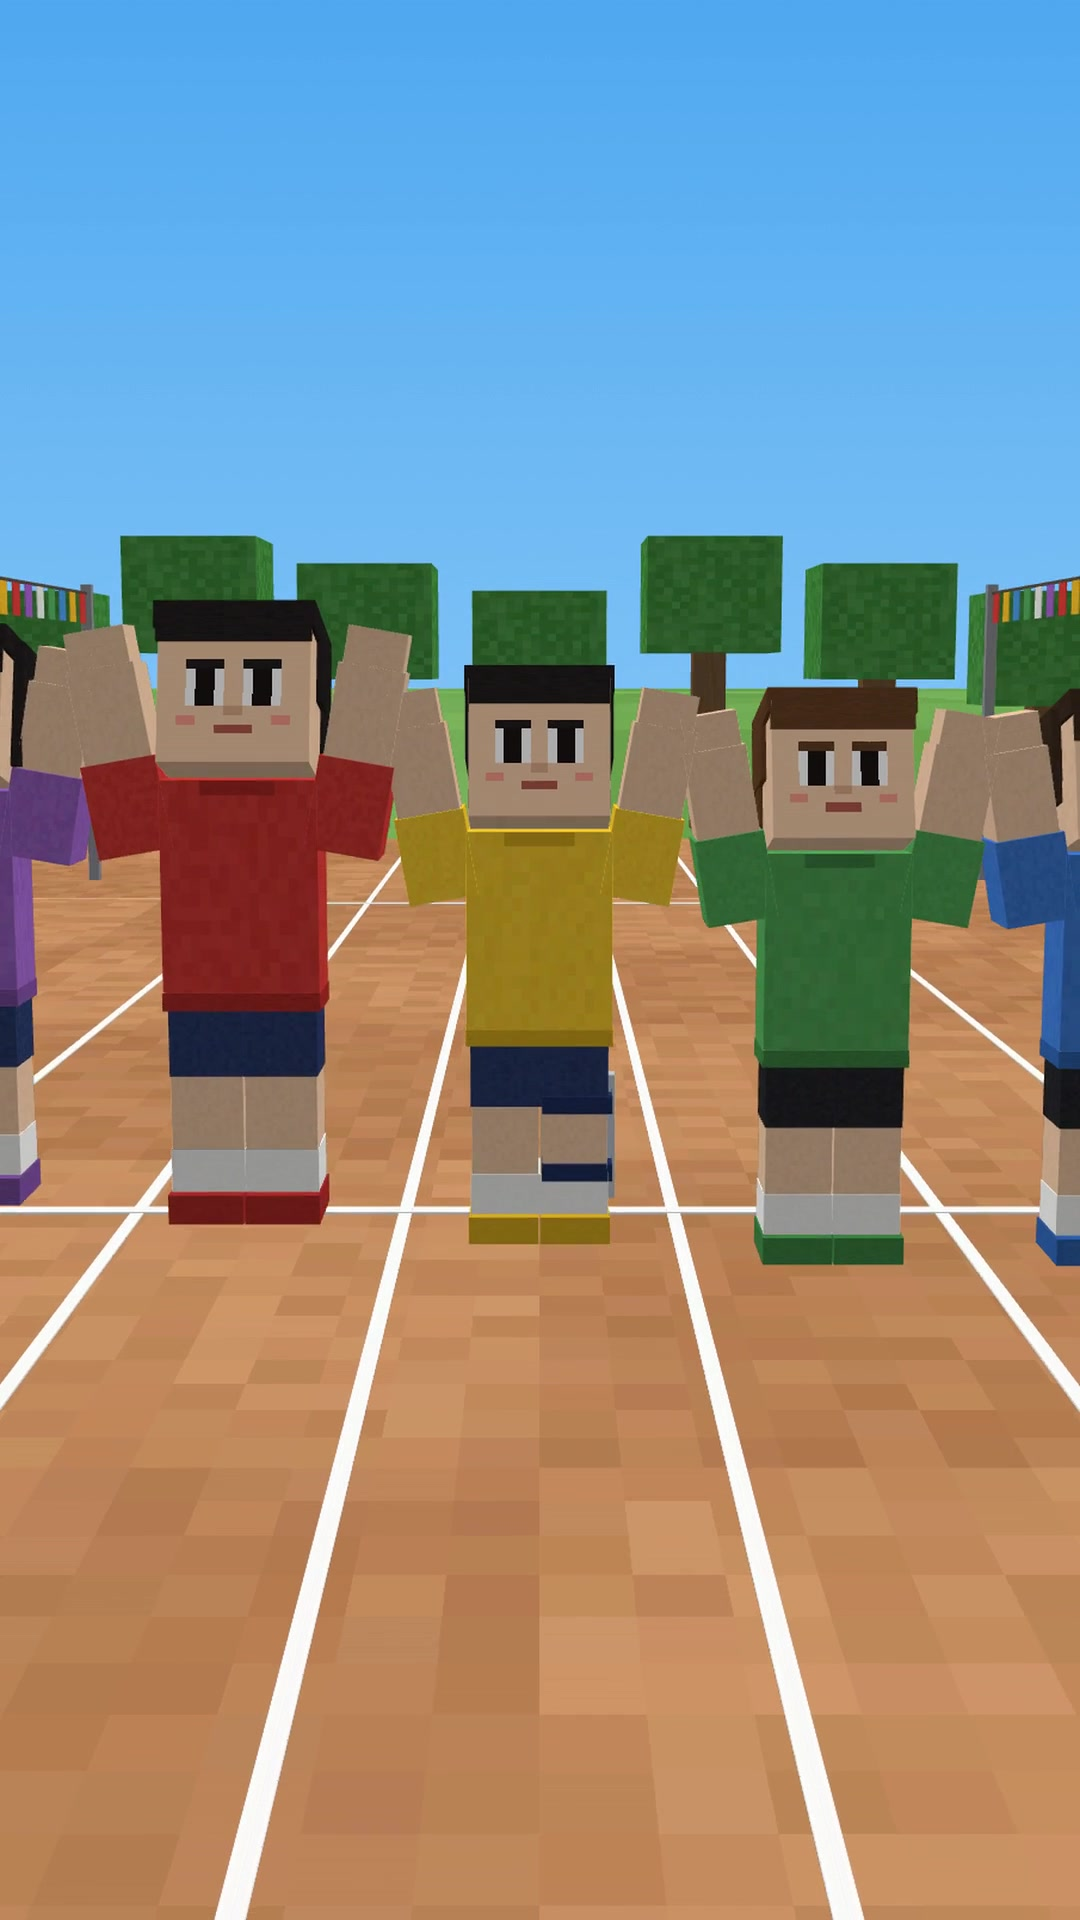
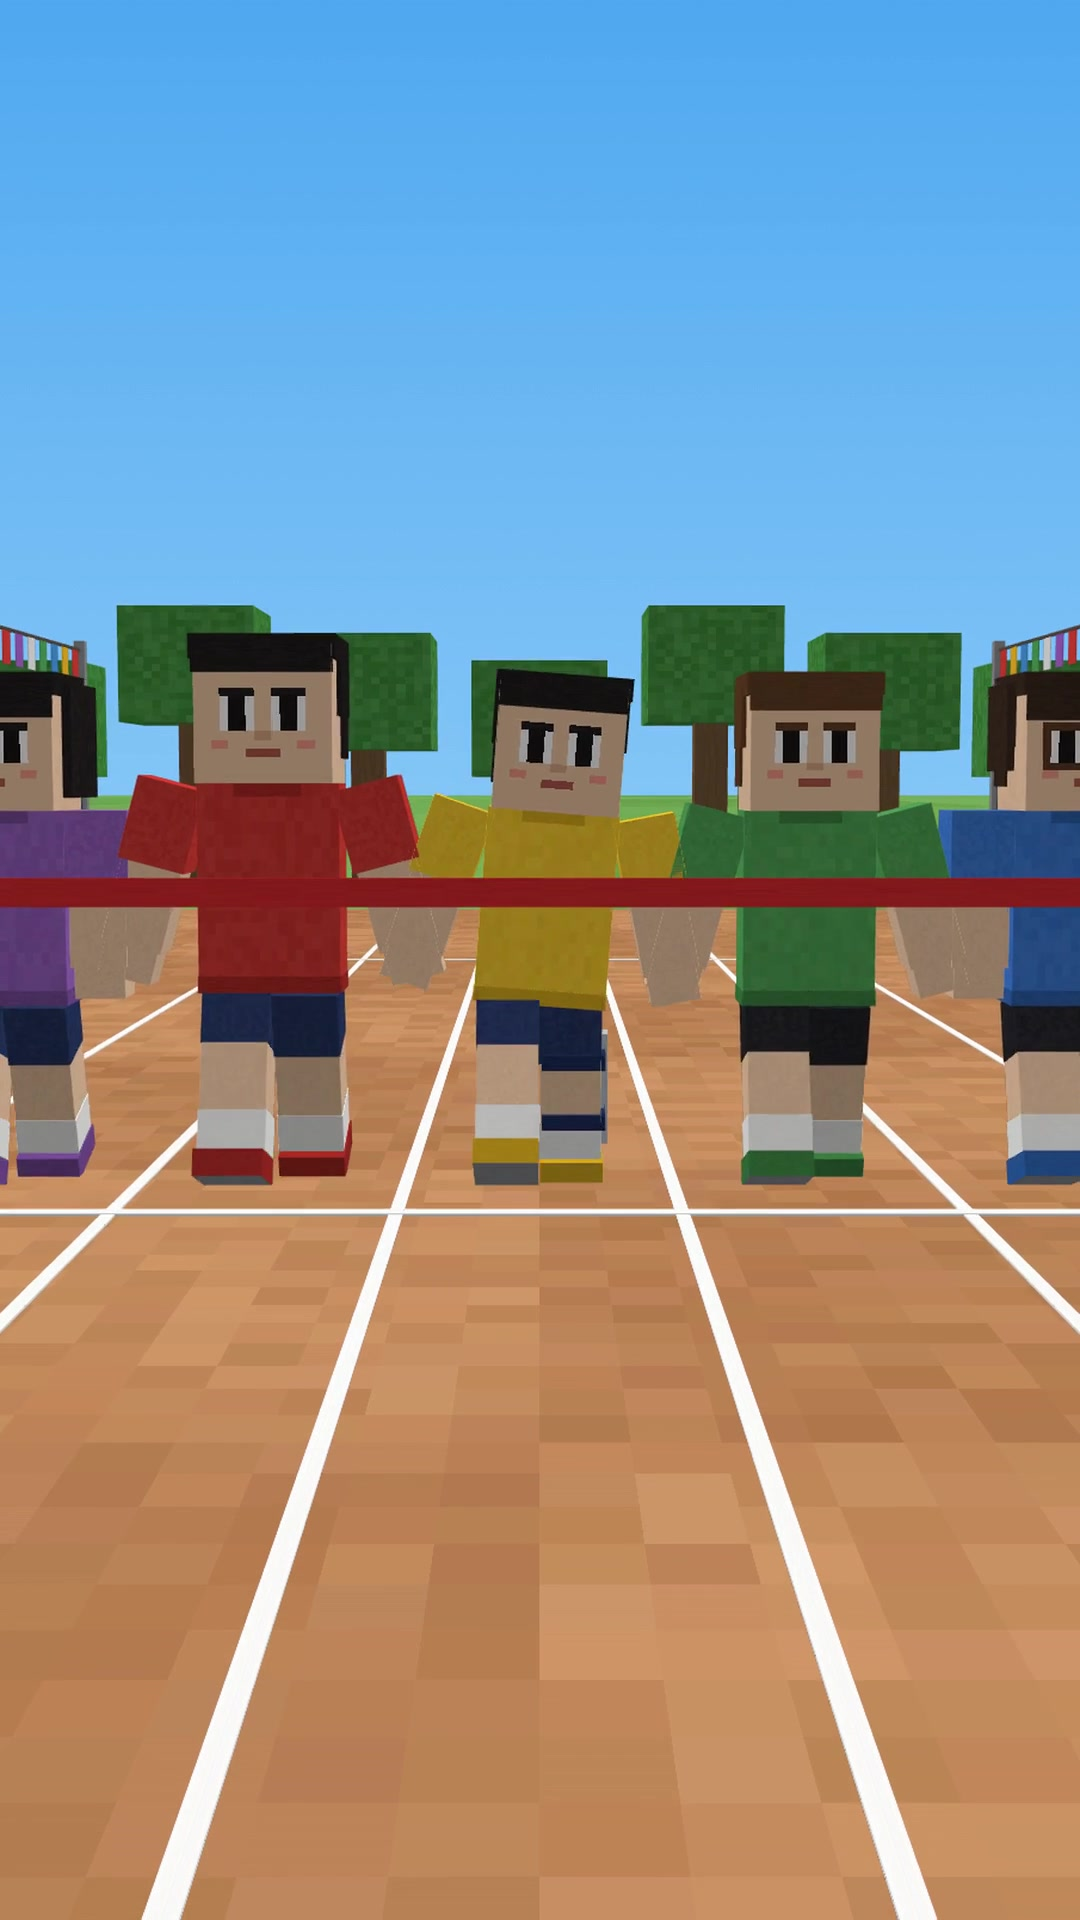
같이 들어온 결승선: 썸네일 후보 2번으로 바꿈
Claude-Session: https://claude.ai/code/session_01HCMiuu9YghebYFFq5zv4gm

Changed region(s): [[0.0, 0.2812, 1.0, 1.0], [0.7639, 0.75, 0.7944, 0.7812]]

diff --git a/연재/같이들어온결승선/기획.md b/연재/같이들어온결승선/기획.md
@@ -24,5 +24,5 @@
 
 - 음악: 밝은 오르골 → 혼자 남을 때 작아짐 → 서연이 손 내밀 때 따뜻하게 → 운동회 북소리·호루라기 → 넷이 멈출 때 조용 → 손잡고 들어올 때 크게, 환호 소리로 끝.
   효과음: 호루라기(출발), 발소리, 바람, 아이들 환호(끝)
-- 썸네일: 후보 1번(테이프를 끊고 다섯이 손을 번쩍 든 장면, 42.4초) → `같이들어온결승선_썸네일.jpg` (사용자 결정 2026-11-13)
+- 썸네일: 후보 2번(다섯이 손잡고 빨간 테이프 앞, 39.6초) → `같이들어온결승선_썸네일.jpg` (사용자 결정 2026-11-13)
 - 만든 것(2026-11-13): 장면 `블록애니/결승선_장면.py`·샷 `결승선_샷.py`(19샷)·소리 `결승선_소리.py`, 조립 `밥그릇_조립.py`
